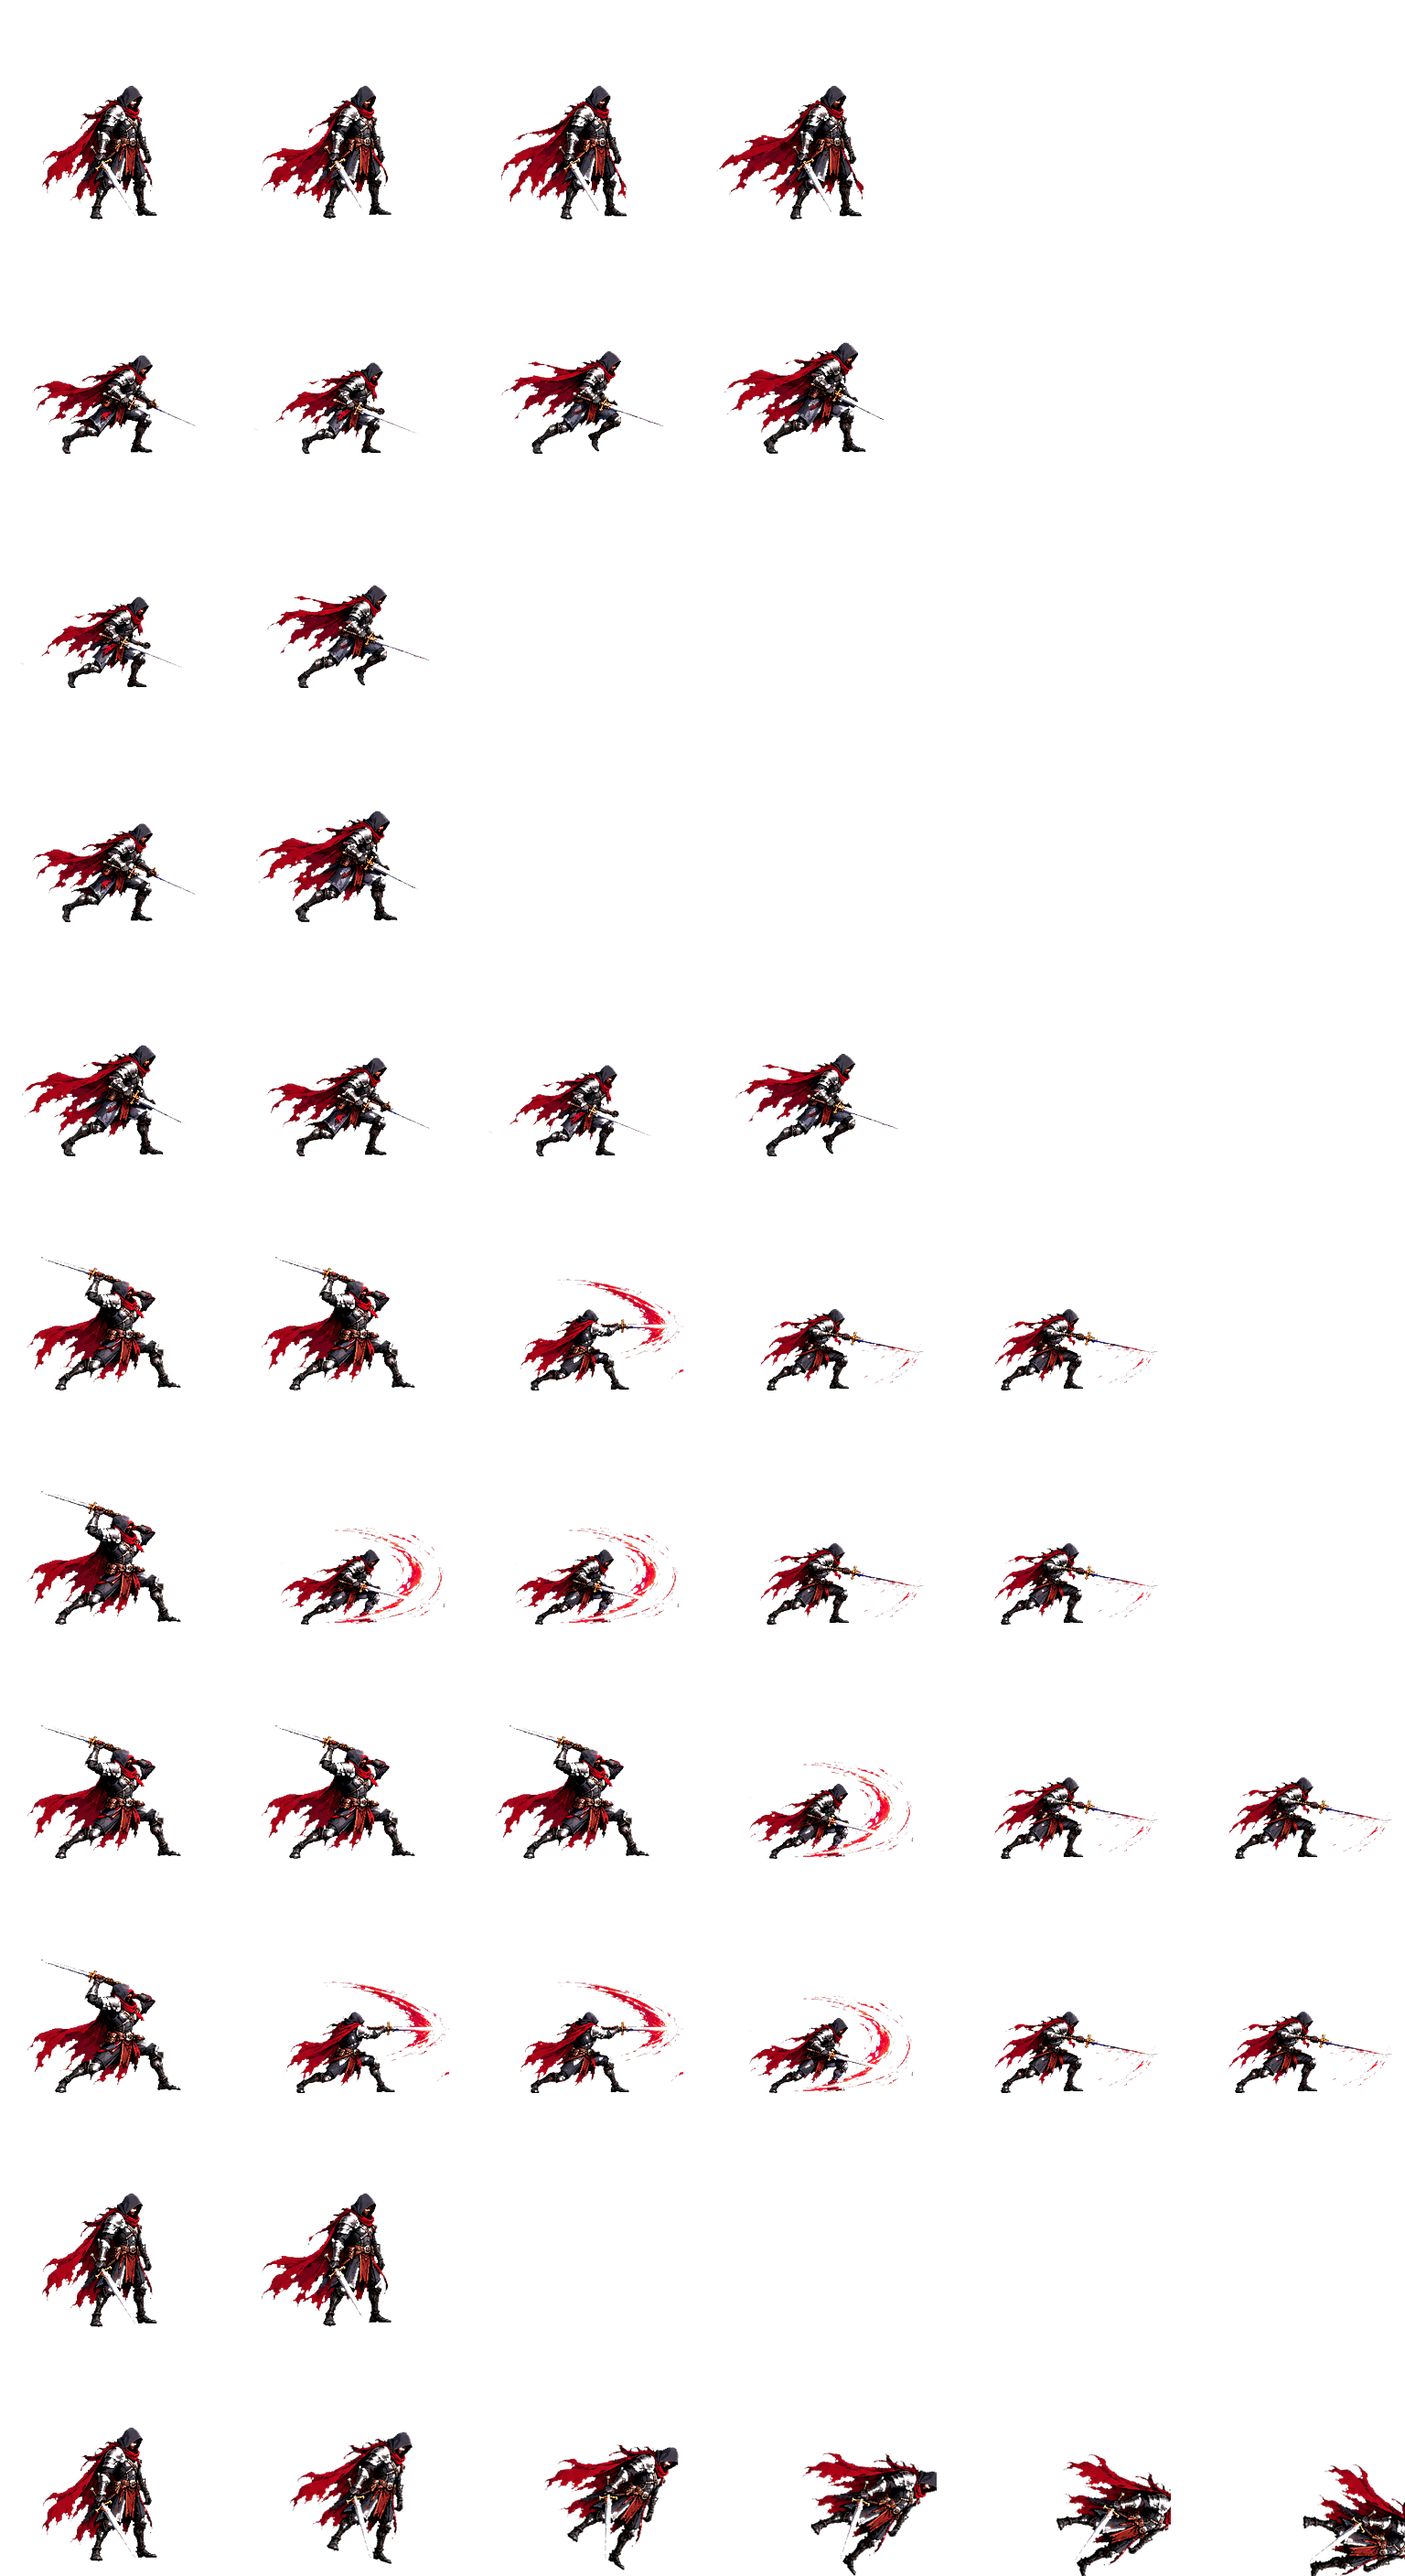
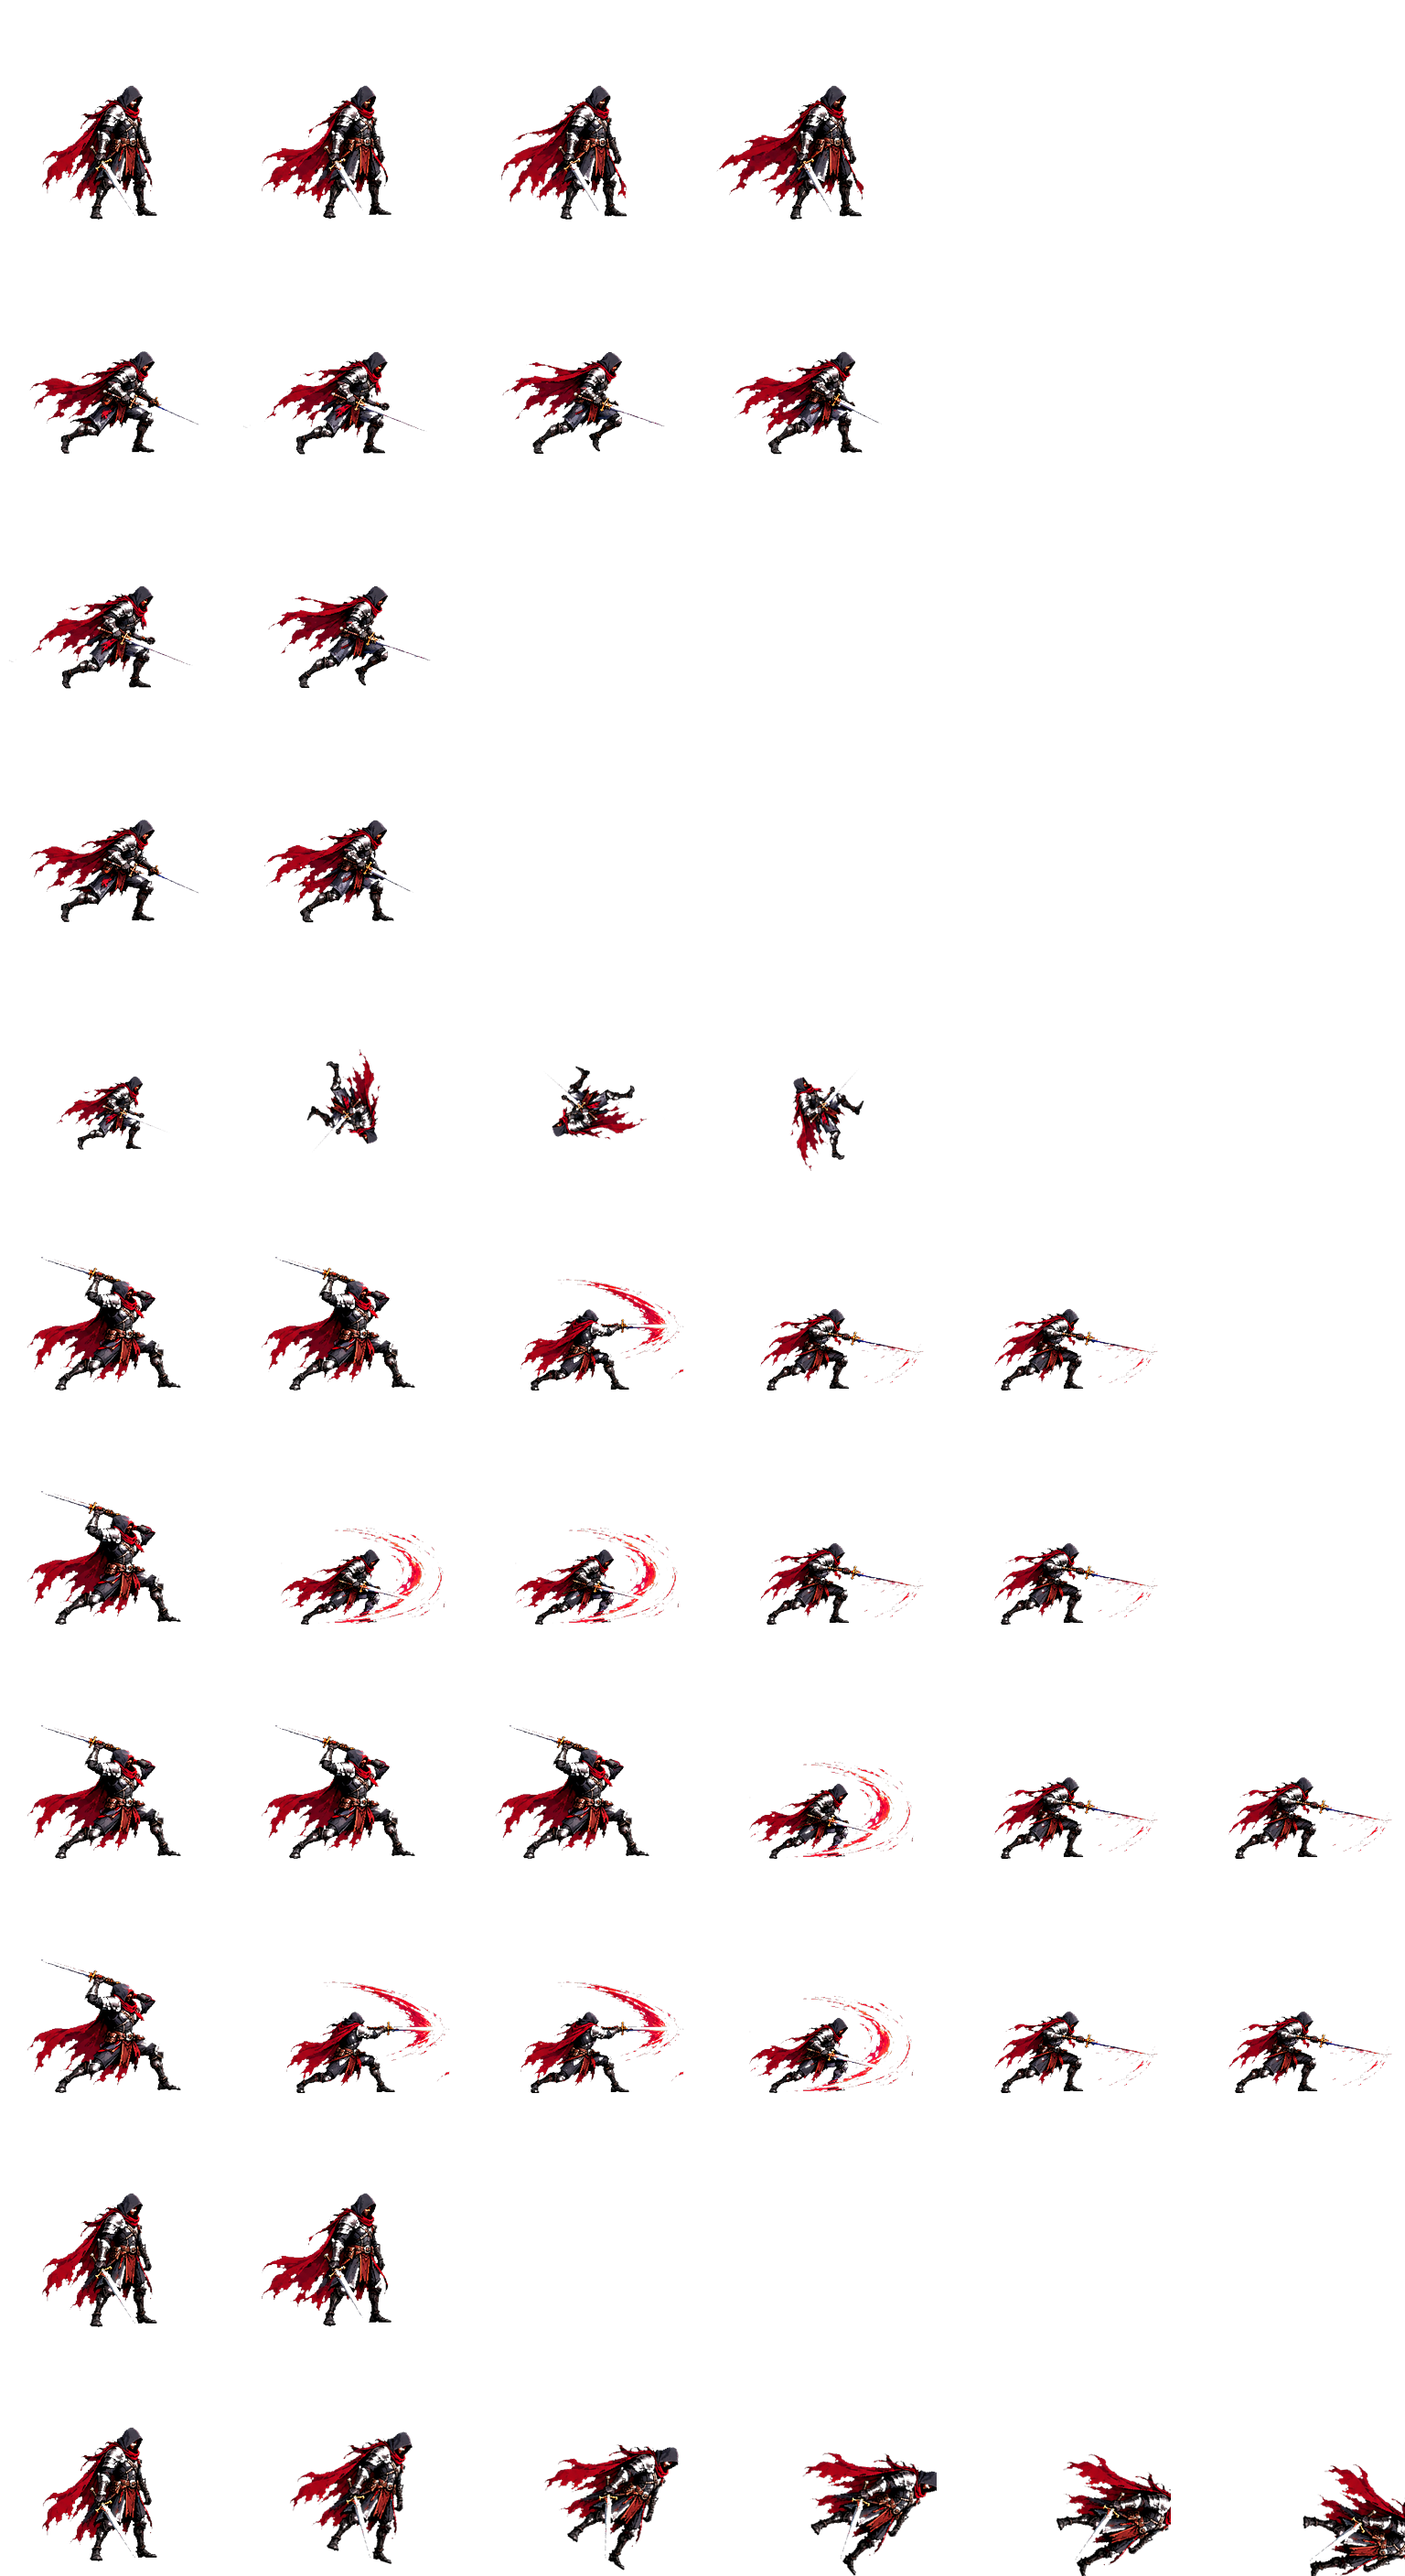
Player: stabilise run (height-normalised, 8fps) and dodge (roll animation)

diff --git a/tools/build_knight_sheet.py b/tools/build_knight_sheet.py
@@ -30,10 +30,21 @@ def anchor_x(c):
     return float(xs.mean()) if len(xs) else CW / 2
 
 
-def cell(row, col):
+def body_height(c):
+    a = np.array(c)
+    op = a[:, :, 3] > 40
+    red = (a[:, :, 0].astype(int) > a[:, :, 1].astype(int) + 50) & (a[:, :, 0].astype(int) > a[:, :, 2].astype(int) + 50)
+    rows = np.where((op & ~red).sum(1) > 6)[0]
+    return float(rows.max() - rows.min())
+
+
+def cell(row, col, target_h=None):
     c = src.crop((col * CW, row * CH, (col + 1) * CW, (row + 1) * CH))
-    ax = anchor_x(c) * SCALE
-    w, h = round(CW * SCALE), round(CH * SCALE)
+    k = 1.0
+    if target_h:  # normalise body height so the cycle doesn't pulse in size
+        k = target_h / body_height(c)
+    ax = anchor_x(c) * SCALE * k
+    w, h = round(CW * SCALE * k), round(CH * SCALE * k)
     c = c.resize((w, h), Image.LANCZOS)
     c = ImageEnhance.Contrast(c).enhance(1.15)
     c = ImageEnhance.Color(c).enhance(1.1)
@@ -41,12 +52,13 @@ def cell(row, col):
     r, g, b = [ImageEnhance.Brightness(ch).enhance(1.12) for ch in (r, g, b)]
     c = Image.merge("RGBA", (r, g, b, al))
     f = Image.new("RGBA", (FRAME, FRAME), (0, 0, 0, 0))
-    f.paste(c, (round(CX - ax), FEET - round(331 * SCALE)), c)
+    f.paste(c, (round(CX - ax), FEET - round(331 * SCALE * k)), c)
     return f
 
 
 idle = [cell(0, i) for i in range(4)]
-run = [cell(1, i) for i in range(4)]
+RUN_H = 232
+run = [cell(1, i, RUN_H) for i in range(4)]
 atk = [cell(2, i) for i in range(4)]
 
 
@@ -59,12 +71,26 @@ def fall_over(base, n):
     return out
 
 
+def roll(base, n=4):
+    """Dodge roll: the crouched run pose shrunk and spun forward around the body centre."""
+    small = base.resize((round(FRAME * 0.72), round(FRAME * 0.72)), Image.LANCZOS)
+    out = []
+    for i in range(n):
+        f = Image.new("RGBA", (FRAME, FRAME), (0, 0, 0, 0))
+        cy = FEET - 50
+        # sit the shrunken pose so its feet are at the ground, then rotate about the body centre
+        tmp = Image.new("RGBA", (FRAME, FRAME), (0, 0, 0, 0))
+        tmp.paste(small, ((FRAME - small.width) // 2, FEET - small.height + 4), small)
+        out.append(tmp.rotate(-90 * i - 20 * (i > 0), resample=Image.BICUBIC, center=(CX, cy)))
+    return out
+
+
 ROWS = [
     ("idle", idle),
     ("run", run),
     ("jump", [run[1], run[2]]),
     ("fall", [run[0], run[3]]),
-    ("dodge", [run[3], run[0], run[1], run[2]]),
+    ("dodge", roll(run[1])),
     ("light1", [atk[0], atk[0], atk[1], atk[3], atk[3]]),
     ("light2", [atk[0], atk[2], atk[2], atk[3], atk[3]]),
     ("heavy", [atk[0], atk[0], atk[0], atk[2], atk[3], atk[3]]),

diff --git a/docs/PROGRESS.md b/docs/PROGRESS.md
@@ -25,6 +25,7 @@ Priority: SAVE PROGRESS > MANY FEATURES. Commit and push after every small step.
 - Floor/platform restyle: each region has `stone` (tile tint) and `rim` (edge light) colours in `Room.REGIONS`; `_edge()` adds a glow + rim line on walking surfaces and a soft shadow underneath. Tests 18/18 + 10/10.
 - Player art replaced with owner's Ashen Knight (`godot/assets/characters/src/ashen_knight_spritesheet.png`, 4x3 atlas: idle/run/attack). `tools/build_knight_sheet.py` rebuilds `player.png`/`player.json` (128px frames, feet row 120). Only idle/run/attack exist in the source, so jump/fall/dodge reuse run frames, light1/light2/heavy/skill reuse attack frames, hurt reuses idle, and death is a rotated idle frame. Needs real jump/dodge/hurt/death art later. Tests 18/18 + 10/10.
 - Knight stability/clarity fix: frames are now aligned by body mass (armour/legs, cape excluded) and feet row instead of cell centre, so no sideways shaking; sheet rendered at 2x (256px frames, `scale: 0.5` in `player.json`, applied to the sprite node in `player.gd`) with a contrast/brightness lift to counter the dark scene tint. Tests 18/18 + 10/10.
+- Run/dodge stability: run frames normalised to equal body height (source varied ~20%), run cadence 8 fps (was 12) to reduce foot sliding, dodge is now a generated forward roll (shrunk crouch pose spun 4 frames) instead of reordered run frames. Tests 18/18 + 10/10.
 
 ## Decision
 Port to Godot 4 (GDScript) for 2D lights, parallax, particles and shaders. Python version stays as a fallback.
